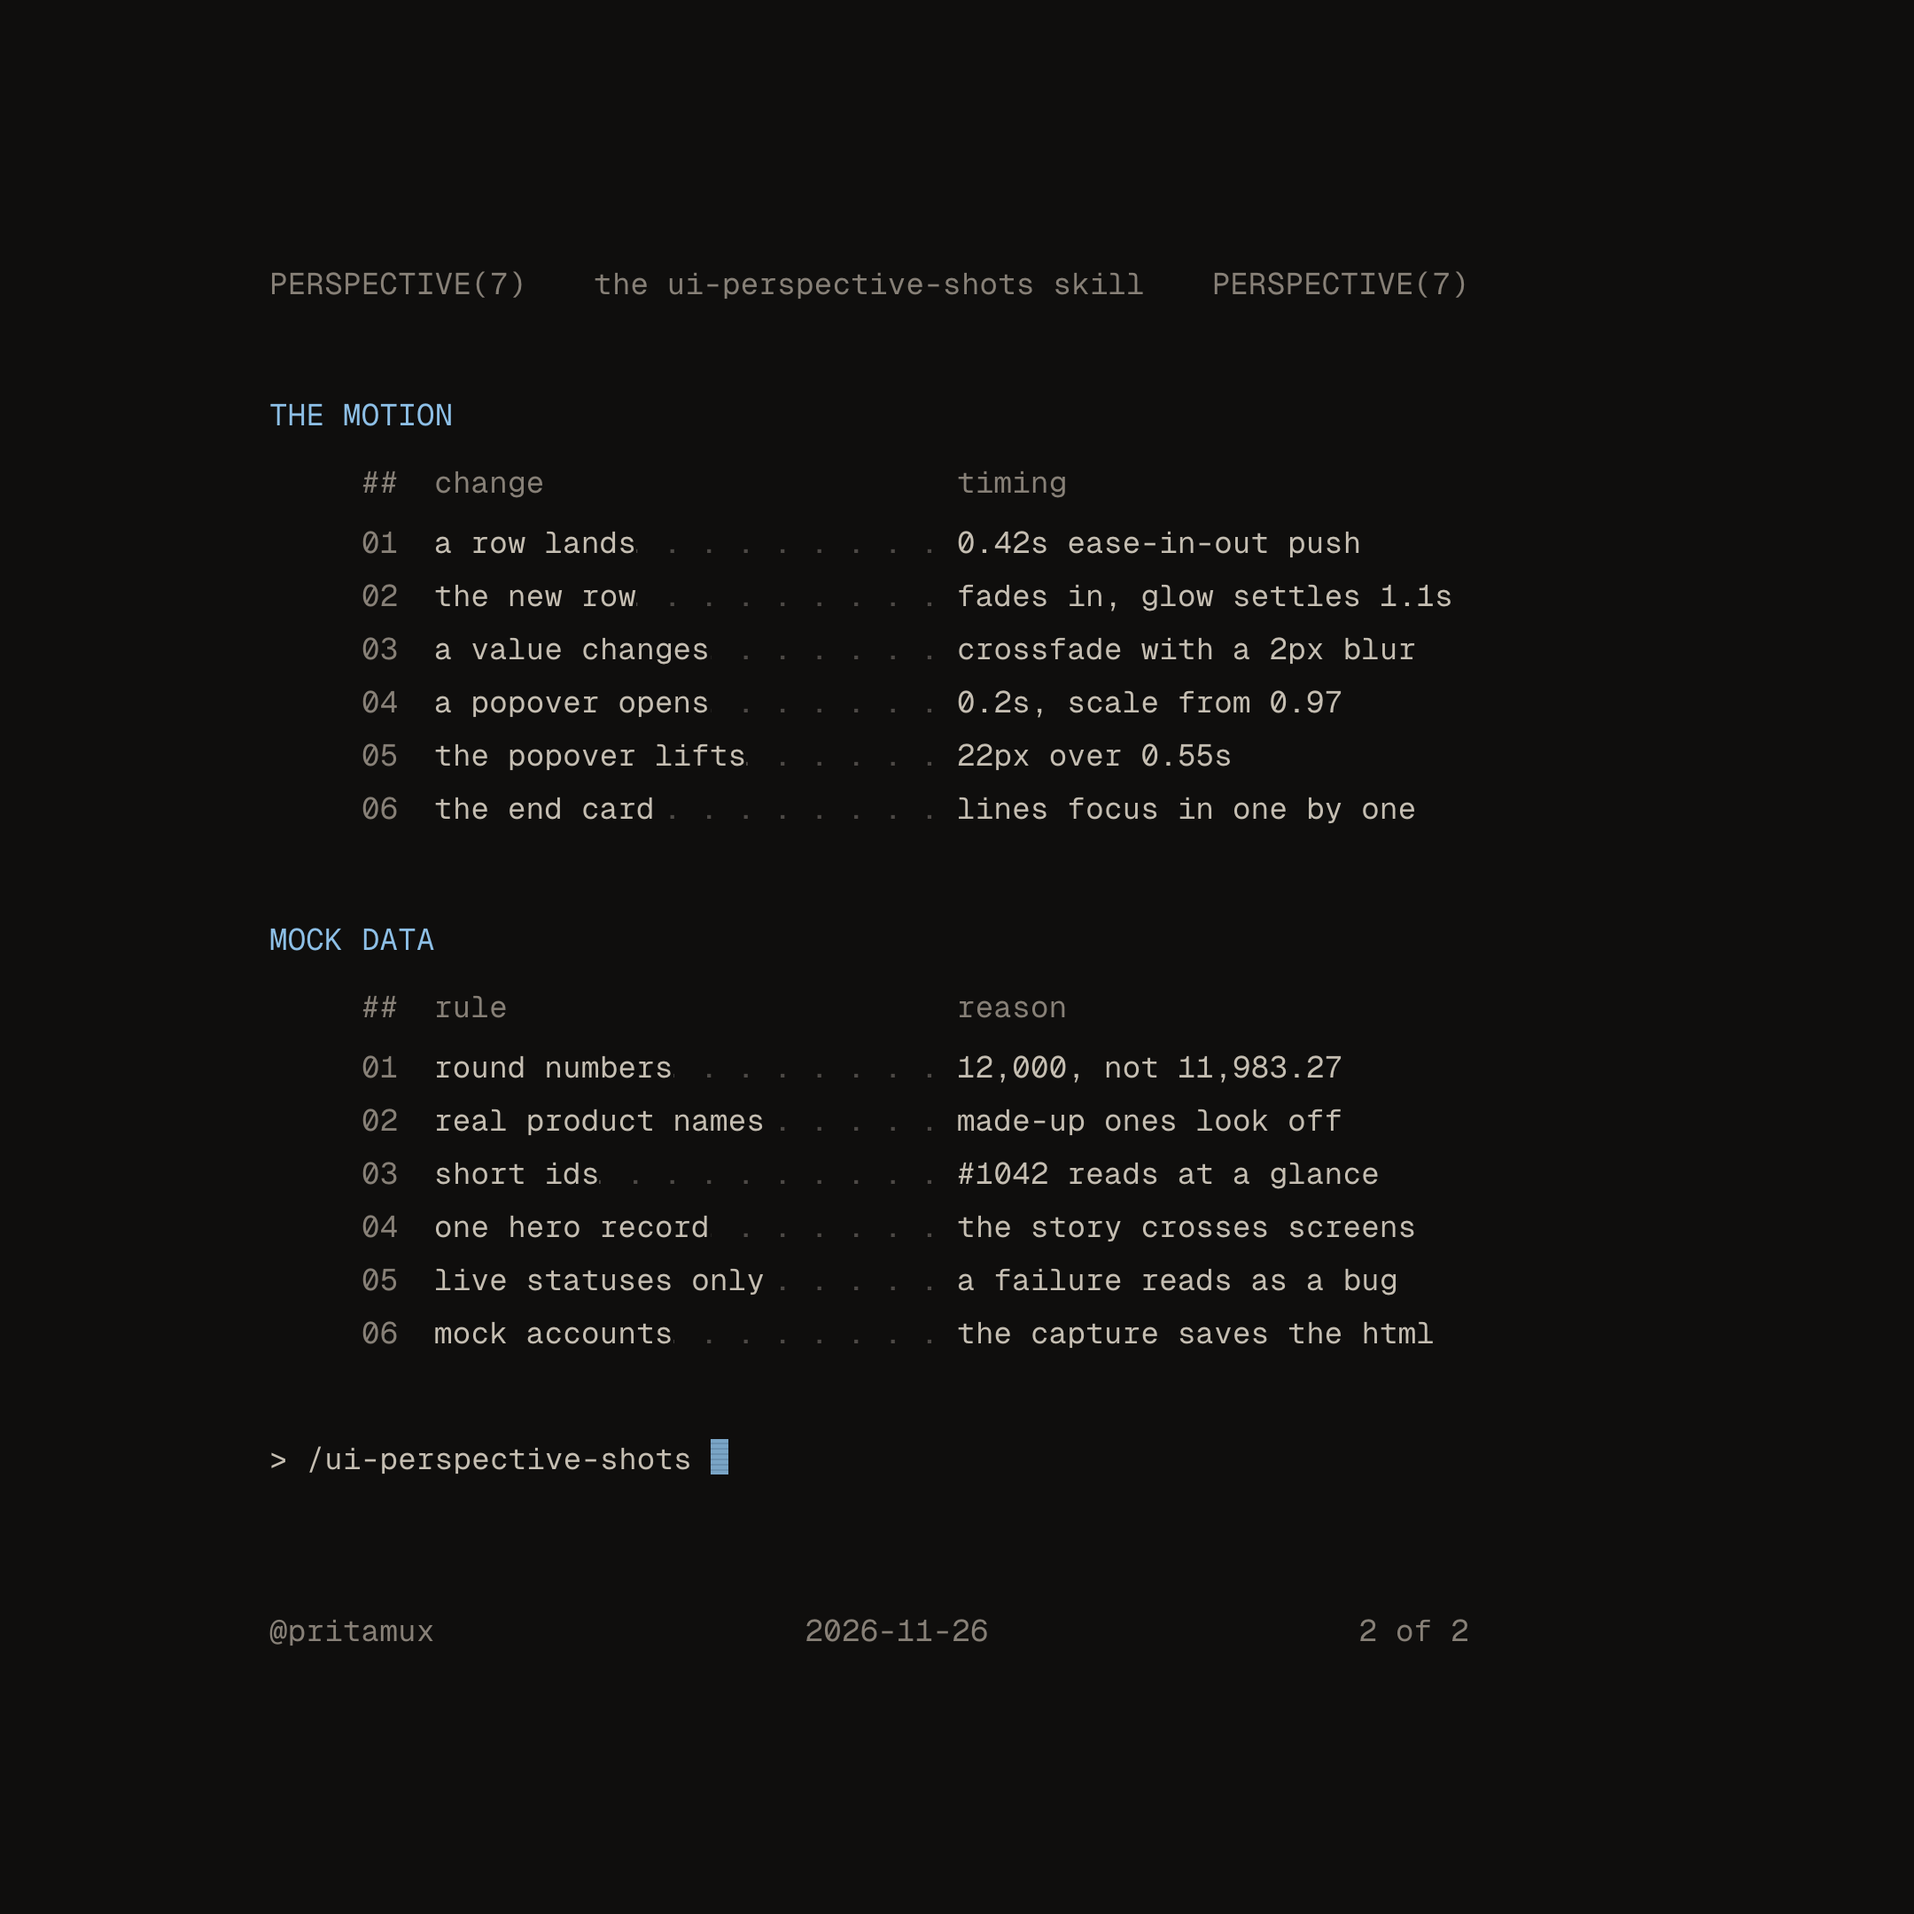
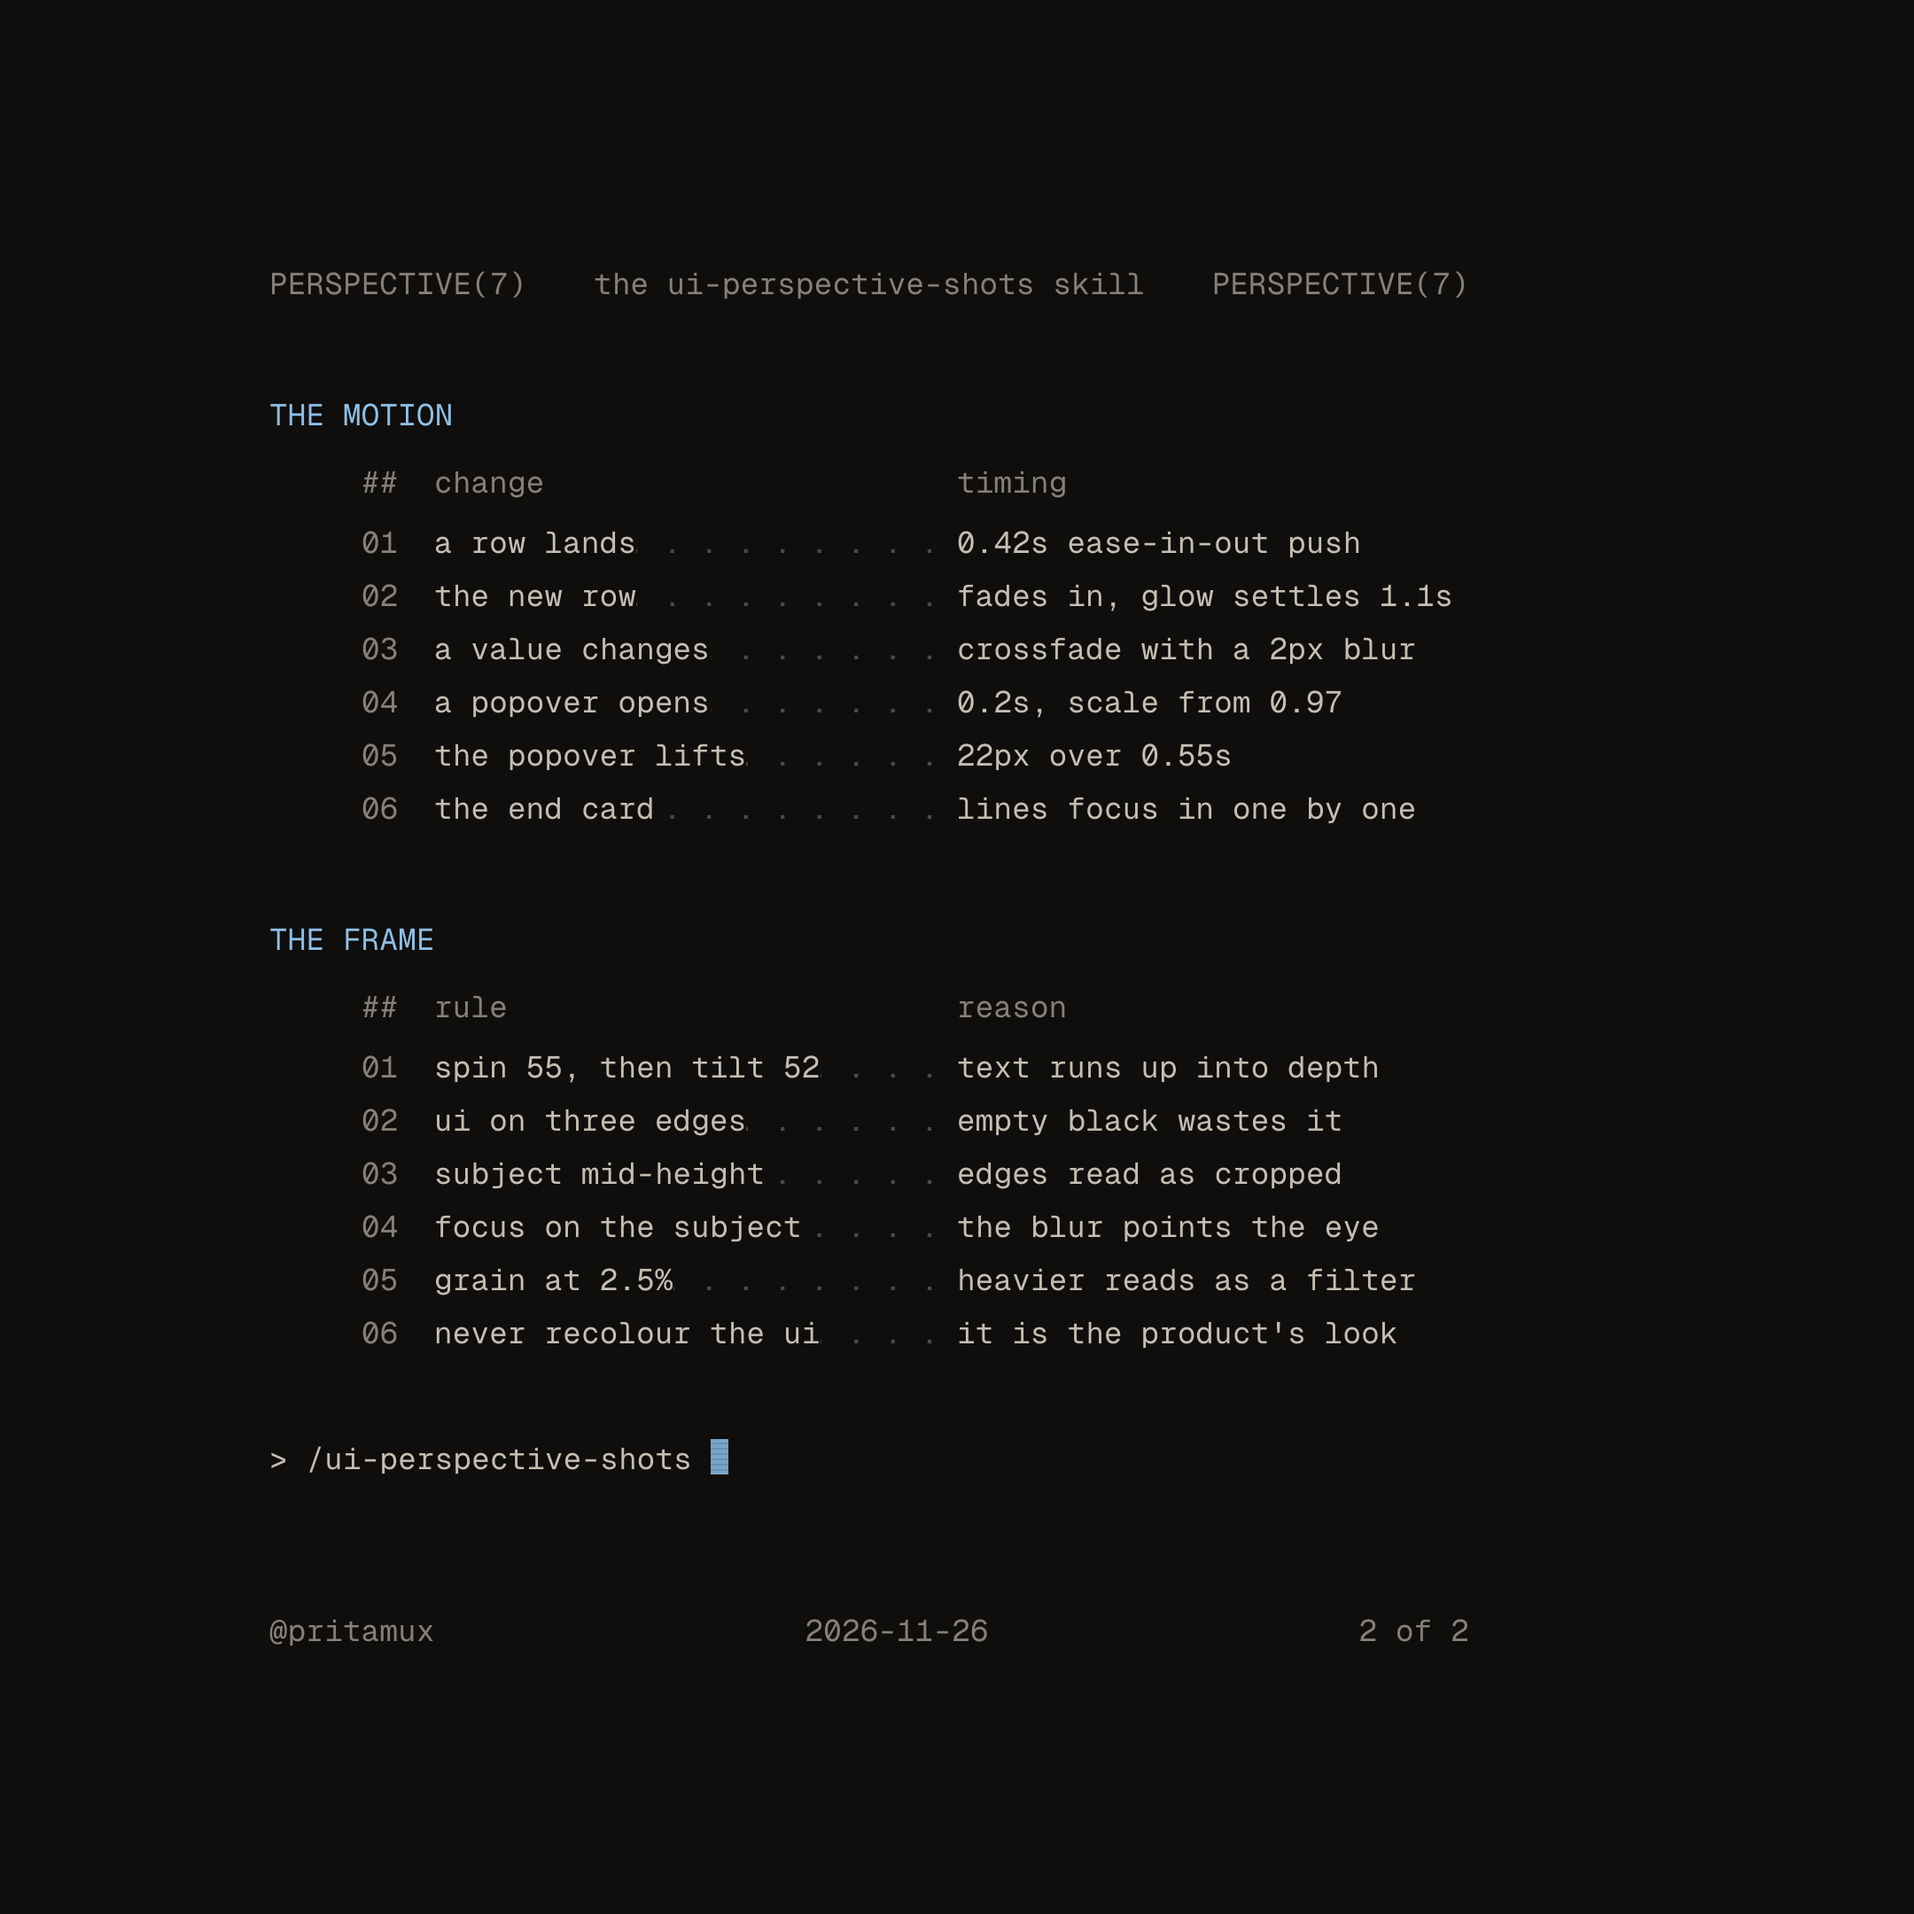
Drop the mock-data rules; card 2 covers framing instead

Changed region(s): [[0.4963, 0.5273, 0.7444, 0.7134], [0.2171, 0.5583, 0.4032, 0.7134], [0.1241, 0.4653, 0.2171, 0.4963]]

diff --git a/examples/demo-project/project.js b/examples/demo-project/project.js
@@ -4,7 +4,7 @@
 /* ---------- pages: the captured page names and the size they are laid out at ---------- */
 const PAGE = { home: [1440, 1200], order: [1100, 1250] };
 
-/* ---------- mock data: pretty numbers only ---------- */
+/* ---------- data for the rows and the order ---------- */
 const R = prng(7);
 const pick = (a) => a[Math.floor(R() * a.length)];
 const clock = (sec) => { const d = 9 * 3600 + 41 * 60 + 7 + Math.floor(sec); const p = (n) => String(n).padStart(2, "0"); return `${p(Math.floor(d / 3600))}:${p(Math.floor(d / 60) % 60)}:${p(d % 60)}`; };

diff --git a/skills/ui-perspective-shots/SKILL.md b/skills/ui-perspective-shots/SKILL.md
@@ -1,6 +1,6 @@
 ---
 name: ui-perspective-shots
-description: Make a launch video and a set of stills that show a product's real UI on a tilted plane, with depth of field, light falloff and a live, moving interface. Captures the running app's DOM and CSS, fills it with clean mock data, frames it with a 3D camera and renders frame by frame. Use when asked for perspective shots, tilted or angled UI shots, launch or announcement videos of a screen or feature, macro pans across UI, or "shots like these" with dark, angled product references. Triggers on: perspective shot, tilted UI, angled screenshot, isometric UI, launch video, announcement video, feature video, social stills, macro pan, depth of field UI, product shots.
+description: Make a launch video and a set of stills that show a product's real UI on a tilted plane, with depth of field, light falloff and a live, moving interface. Captures the running app's DOM and CSS, frames it with a 3D camera and renders frame by frame. Use when asked for perspective shots, tilted or angled UI shots, launch or announcement videos of a screen or feature, macro pans across UI, or "shots like these" with dark, angled product references. Triggers on: perspective shot, tilted UI, angled screenshot, isometric UI, launch video, announcement video, feature video, social stills, macro pan, depth of field UI, product shots.
 ---
 
 # UI Perspective Shots
@@ -18,27 +18,20 @@ Everything is rendered frame by frame from HTML. Never screen-record: real-time 
 ## 2. Capture the real UI
 
 1. Run the product's dev server from the branch with the final UI. Ask which branch if it isn't clear.
-2. Capture with mock or disconnected accounts only. The capture saves page DOM to disk; a logged-in session would save real names, balances and IDs.
+2. Capture with test or disconnected accounts only. The capture saves page DOM to disk; a logged-in session would save real names, balances and IDs.
 3. List every screen in `shots.config.json` → `pages`. Find real URLs by visiting the index page and reading its links; pick records with the richest content (an order with several line items beats an empty one).
 4. Popovers, menus and results that need an interaction go in `popovers` (click a selector, type text, capture a selector). Type a full identifier when the product only resolves full ones.
 5. Run `node kit/capture.cjs`. It saves each page's DOM, the compiled CSS and the fonts it references, and bundles `capture/data.js`. A font count of zero means the product uses system fonts or the font URLs failed; check before going on.
 
-## 3. Fill it with mock data
+## 3. Prepare the pages
 
-Always mock. Never ship the live values the capture came with. Real data is uneven (a zero fill, a ten-decimal size, a truncated name) and reads as broken at a glance.
-
-- Numbers are round and varied: `12,000`, `2.5`, `0.25`, `$1,250.00`. Two decimals at most unless the unit needs more.
-- Names (products, markets, plans, customers) are ones a user of this product would recognise; invent nothing that looks off-brand.
-- IDs are short (`37`, `#1042`); hashes are random hex with a recognisable head (`0x7a3f9c…`).
-- One hero record carries the story across screens: the same order or transaction appears in the search result, the record page and the activity list.
-- Statuses are the ones that look alive: open, in progress, done. Failures do not appear.
-
-Drive the data into the captured DOM:
+Rows that arrive during a shot need content to arrive with. Set it in the captured DOM:
 - Rows: clone a captured row as a template and set each zone. Never rebuild rows from scratch.
 - Record pages: set values by their label (`setDD(page, "Status", …)`). Labels are stable; positions are not.
-- Remove temporary chrome in `cleanChrome`: announcement banners, migration prompts, dev overlays. Keep the navigation and the product's own controls.
 
-Check every scene flat before any camera work: `node kit/flat.cjs`, then look at each `out/flat-<scene>.png`. Fix anything truncated, empty, duplicated or still showing a template's original value. A flat page that looks wrong looks worse at an angle.
+Remove temporary chrome in `cleanChrome`: announcement banners, migration prompts, dev overlays. Keep the navigation and the product's own controls.
+
+Check every scene flat before any camera work: `node kit/flat.cjs`, then look at each `out/flat-<scene>.png`. Fix anything truncated, empty or duplicated. A flat page that looks wrong looks worse at an angle.
 
 When the product itself clips or breaks something (a truncated timestamp, an overflowing label), fix it in the shot and report it as a product bug. Never silently ship the bug, never silently hide it.
 

diff --git a/README.md b/README.md
@@ -2,7 +2,7 @@
 
 An agent skill that films your product's real UI on a tilted plane: depth of field, light falloff and a live interface, rendered frame by frame. It makes one launch video and a set of stills.
 
-Capture the real page, fill it with mock data, then point a camera at it.
+Capture the real page, then point a camera at it.
 
 ![A live activity feed shot on a tilted plane, rows landing while the camera drifts](media/reference.jpg)
 
@@ -40,7 +40,7 @@ Then ask your agent for the set, or call it directly:
 | `skills/ui-perspective-shots/kit/run.js` | Builds the stage, picks a reel and exposes `frameAt(t)`, `stillAt(n)` and `reelLength` |
 | `skills/ui-perspective-shots/kit/stage.html` | The page the renderer loads (copy it to `index.html`) |
 | `skills/ui-perspective-shots/kit/render.cjs` | Renderer: frames, stills or H.264 video, one exact frame at a time |
-| `skills/ui-perspective-shots/kit/flat.cjs` | Renders each page head-on to check the mock data |
+| `skills/ui-perspective-shots/kit/flat.cjs` | Renders each page head-on, to check it before any camera work |
 | `skills/ui-perspective-shots/kit/measure.cjs` | Prints element positions for aiming the camera |
 | `skills/ui-perspective-shots/kit/motion.py` | Measures camera speed in any video, to compare a cut with a reference |
 | `examples/demo-app/` | A small static dashboard to try the kit on |
@@ -73,7 +73,7 @@ node kit/render.cjs video out/demo.mp4
 ## Safety notes
 
 - `capture.cjs` only visits the pages listed in `shots.config.json`, plus the font files their CSS references (which may live on a font CDN). Font filenames are sanitised, and everything it writes stays in `capture/`.
-- The capture saves page HTML to disk. Point it at a dev server with mock or disconnected accounts, never a logged-in production session.
+- The capture saves page HTML to disk. Point it at a dev server with test or disconnected accounts, never a logged-in production session.
 - The renderer opens the local stage with `--allow-file-access-from-files`, so the stage can load its own CSS, fonts and data. Only render project folders you created.
 - No telemetry, no network calls during rendering, no dependencies beyond `playwright-core` (and `numpy` for `motion.py`).
 
